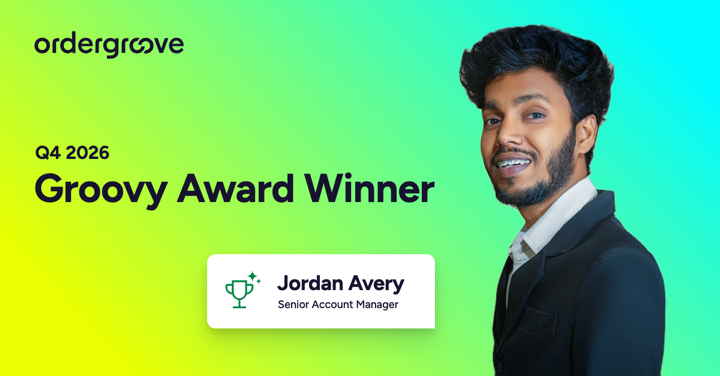
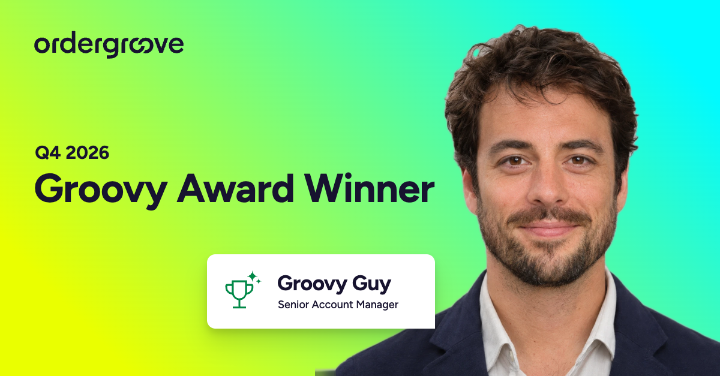
Regenerate Groovy Award card previews with the Groovy Guy sample, give the face room from the title

diff --git a/public/social/groovy-award-sample-portrait-CREDIT.md b/public/social/groovy-award-sample-portrait-CREDIT.md
@@ -4,4 +4,4 @@ This is a generated image of no real person. It is not an Ordergroove employee o
 
 - Source: AI-generated headshot supplied by Cameron Austin on 2026-11-13 (Codex image generation, 1254 x 1254 PNG). No stock license involved.
 - Replaces: the earlier Unsplash sample (Abhishek Rai, Unsplash License), which the Hub no longer ships.
-- Changes: background removed on this Mac with Apple Vision (no upload to any service), scaled 1.1x and placed in a 1350 x 1254 transparent WebP sized to the Groovy Award photo frame.
+- Changes: background removed on this Mac with Apple Vision (no upload to any service), scaled 1.1x and placed in a 1350 x 1254 transparent WebP sized to the Groovy Award photo frame; the jacket's cut left edge is extended 65px so no hard edge shows. The four card previews (`groovy-award-*-preview.png`) are rendered from the editor's sample state.
